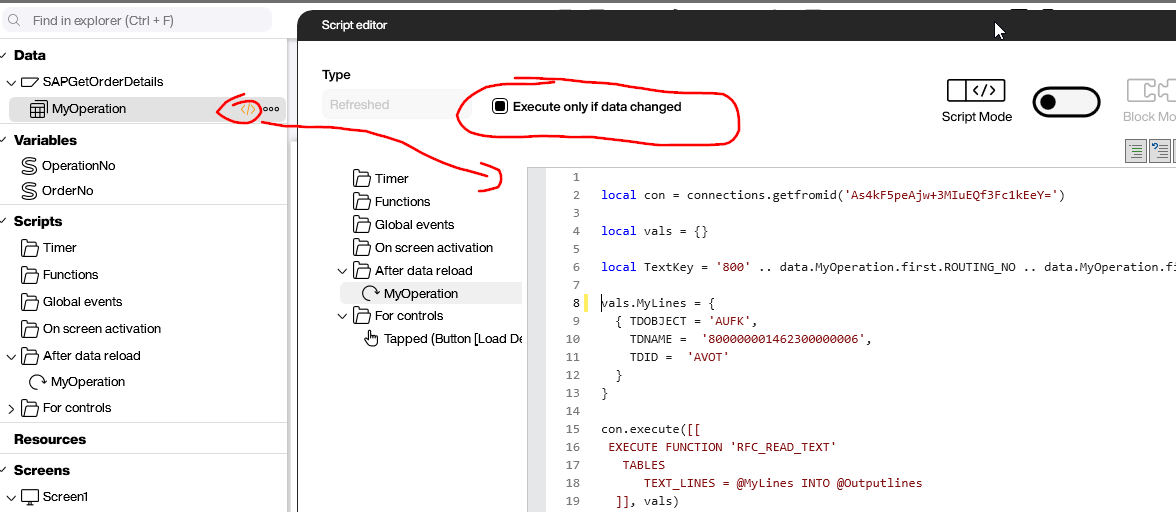
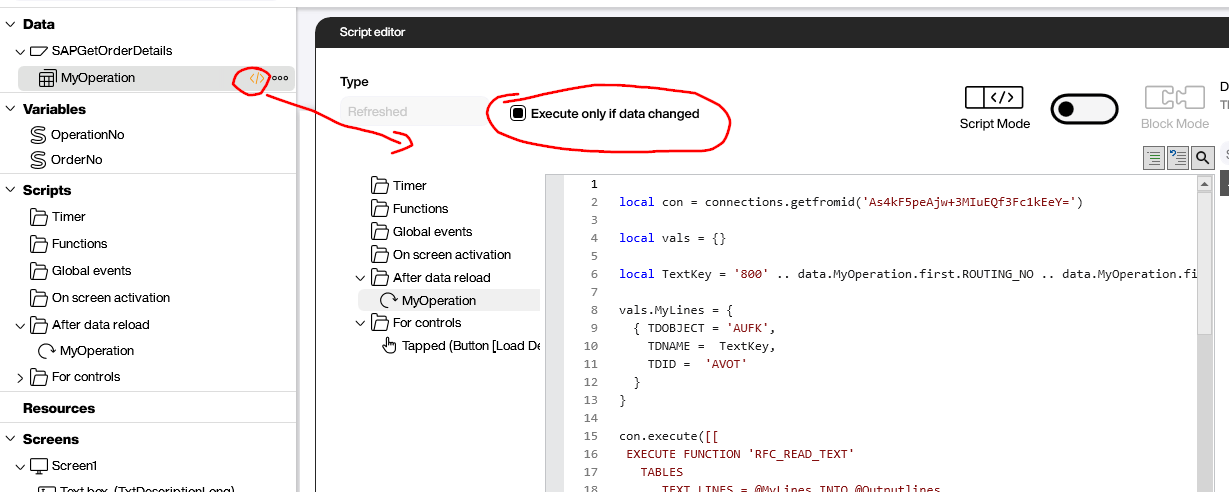
typos

Changed region(s): [[0.0, 0.0, 1.0, 1.0]]

diff --git a/_posts/2024-12-03-How-to-use-RFC_READ_TEXT-to-handle-SAP-production-order-operation-texts-with-Peakboard.md b/_posts/2024-12-03-How-to-use-RFC_READ_TEXT-to-handle-SAP-production-order-operation-texts-with-Peakboard.md
@@ -16,8 +16,8 @@ downloads:
   - name: SAPPOOperationText.pbmx
     url: /assets/2024-12-03/SAPPOOperationText.pbmx
 ---
-SAP connectivity is tradionally one of the [huge topics](https://how-to-dismantle-a-peakboard-box.com/category/sap) on this blog - especially in the area of production and production planning. In this article we will take a look at long texts. The term "long text" refers to a certain pattern that is used in lot of SAP contexts and business objects to store additional information to the object that is not bound to any length restriction. Long texts in SAP are handled in the same way regardless of the SAP module. 
-In out sample we will handle long texts of an operation that is bound to a SAP production order. But the function module we're using to read the text can be used for any long text.
+SAP connectivity is tradionally one of the [huge topics](https://how-to-dismantle-a-peakboard-box.com/category/sap) on this blog - especially in the area of production and production planning. In this article we will take a look at long texts. The term "long text" refers to a certain pattern that is used in lots of SAP contexts and business objects to store additional information to the object that is not bound to any length restriction. Long texts in SAP are handled in the same way regardless of the SAP module. 
+In our sample we will handle long texts of an operation that is bound to a SAP production order. But the function module we're using to read the text can be used for any long text.
 
 ## Long text in SAP
 
@@ -29,7 +29,7 @@ The two screenhots show how a long text in SAP looks like. We start from the ope
 
 ## Building the Peakboard application
 
-We already discussed the download of a production order in [this article](/Dismantle-BAPI_PRODORD_GET_DETAIL-How-to-get-production-order-details-from-SAP.html). We learned how to use BAPI_PRODORD_GET_DETAIL to get a list of components that are used in the order. In this first step we do exactly the same but download the operations.
+We already discussed the download of a production order in [this article](/Dismantle-BAPI_PRODORD_GET_DETAIL-How-to-get-production-order-details-from-SAP.html). We learned how to use BAPI_PRODORD_GET_DETAIL to get a list of components that are used in the order. In this first step we do exactly the same but download the operations instead of components.
 
 In the Peakboard application we place two text fields for the production order number and operation number and bind it to two variables we will use later.
 
@@ -57,18 +57,18 @@ What we have now is access to all the structured operation's fields, e.g. the sh
 
 ## RFC_READ_TEXT
 
-The function module RFC_READ_TEXT can be used to download long text remotely, however the way to use it might not be as expected. There's a table named TEXT_LINES that must be filled with two attributes and a long compound key to identify the text. Sending these values to the function module let it fill the table with text lines of the text we request.
+The function module RFC_READ_TEXT can be used to download long text remotely, however the way to use it might not be as expected. There's a table named TEXT_LINES that must be filled with two attributes and a long compound key to identify the text. Sending these values to the function module makes it fill the table with text lines of the text we request.
 Initially we must fill the table with these values:
 
 * TDOBJECT is the name of the business object to be queried, in our case AUFK which represents the production order.
 * TDID is name of the sub object to identify which text is to be queried, in our case it's AVOT which stands for the production order operation text.
-* TDNAME is a compound key. In our case the pattern is MMMXXXXXXXXXXYYYY, where MMM is the client, XXXXXXXXXX is the routing number of the operation, and YYYY is the counter of the operation
+* TDNAME is a compound key. In our case the pattern is MMMXXXXXXXXXXYYYY, where MMM is the client, XXXXXXXXXX is the routing number of the operation, and YYYY is the counter of the operation.
 
 The compound key might feel very strange for people who are unfamiliar with SAP compound keys, but actaully it's easy to handle, because the "client" is fixed, and routing number and counter are both easy accessible from the operation table that is returned by the BAPI_PRODORD_GET_DETAIL function.
 
 ![image](/assets/2024-12-03/055.png)
 
-Here's is the script that is processed to get the texts. First the table element is built and filled with the three attributes. The key is concatenated from the operations tables.
+Here's is the script that is processed to get the texts. First the table element is built and filled with the three attributes. The key is concatenated from the operations table.
 The next step is to execute the XQL. The term "TEXT_LINES = @MyLines INTO @Outputlines" is ued to indicate that the table is sent from the caller to SAP and also is returned from SAP.
 In the last part, we just iterate of over the text lines of the return table and concatenate the lines to one single string with line breaks.
 
@@ -81,7 +81,7 @@ local TextKey = '800' .. data.MyOperation.first.ROUTING_NO .. data.MyOperation.f
 
 vals.MyLines = {
   { TDOBJECT = 'AUFK',
-    TDNAME =  '800000001462300000006',
+    TDNAME =  TextKey,
     TDID =  'AVOT'
   }
 }
